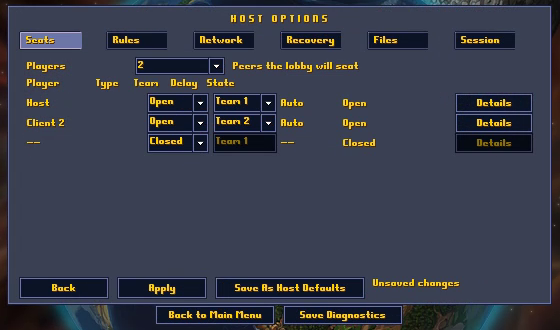
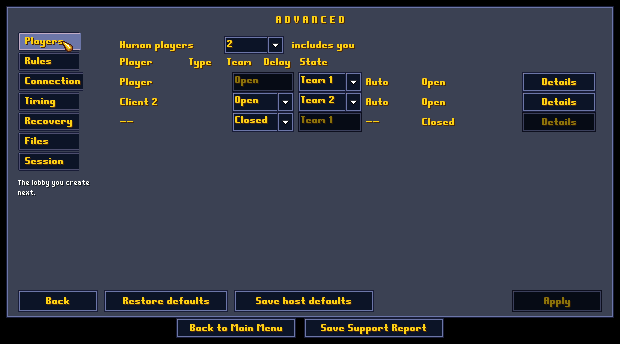
Show the multiplayer screens as they are now in the README

diff --git a/README.md b/README.md
@@ -106,14 +106,18 @@ A community fork of the [Cortex Command Community Project](https://github.com/co
 | | |
 |---|---|
 | <img src="docs/images/main-menu.jpg" alt="The main menu with Multiplayer" width="440"> | **Main menu.** **Multiplayer** sits between Scenario Battle and Saved Games. The version line at the bottom left names the base game, the multiplayer version and the network protocol. |
-| <img src="docs/images/join-game.png" alt="Join Game with the game list" width="440"> | **Join Game.** Type a host's address and port, or click a game in the list. `[LAN]` games are on your network; `[NET]` games come from the directory service. |
-| <img src="docs/images/host-options-seats.png" alt="Host options: Seats" width="440"> | **Host options: Seats.** How many players the lobby seats, each seat's team, its input delay (automatic by default) and its state. **Details** opens the seat. |
-| <img src="docs/images/host-options-network.png" alt="Host options: Network" width="440"> | **Host options: Network.** **Internet: NAT traversal (STUN)** lets players behind home routers connect directly; **Relay (TURN)** is off, from the directory (Cloudflare), or your own server. Every row has a one-line hint naming its consequence. The **Delay / session** tab holds the slow-player bound and what happens when a player falls behind. |
-| <img src="docs/images/recovery.png" alt="Host options: Recovery" width="440"> | **Host options: Recovery.** Automatic match repair; the **Return window** for a dropped player; authenticated rejoin; **Autosave checkpoints** every 60 seconds to 60 minutes, or off; **World history** and the **Catch-up limit** for persistent worlds. |
+| <img src="docs/images/multiplayer.png" alt="Multiplayer: your name, Host a Game and Join a Game" width="440"> | **Multiplayer.** Your name, then **Host a Game** and **Join a Game**, with **Host Saved Match** and **Replays** below. When a match of yours is still running, a block above them offers **Rejoin Match**: your seat is held until the host gives it away. |
+| <img src="docs/images/host-game.png" alt="Host a Game: activity, scene, mode and human players" width="440"> | **Host a Game.** Four rows: the activity with the first line of what it is, the scene, the mode in plain words and how many people play, you included. One line sums the match up and says who can find it. **Create Lobby** opens it; the port, the delay, the router and the listing are behind **Advanced**. |
+| <img src="docs/images/lobby.png" alt="The lobby: players, their state and what happens next" width="440"> | **Lobby.** Every player and AI team with its state, and one sentence saying who is waited for. Players press **Ready** and can take it back. The host presses **Start Match**: at once when everyone is ready, otherwise a 30-second countdown everyone sees starts, and the host can cancel it. A line says who can find the game. |
+| <img src="docs/images/join-game.png" alt="Join a Game: the game list" width="440"> | **Join a Game.** The screen is the game list: each game's host, activity and players, whether it is on this network or the internet, and the reason when it cannot be joined. Select a game and press **Join Game**, or double-click it. **Join by address** takes a host's address and port. |
+| <img src="docs/images/host-options-seats.png" alt="Advanced: Players" width="440"> | **Advanced.** The host's full options, on seven pages chosen on the left: Players, Rules, Connection, Timing, Recovery, Files and Session. Changes wait for **Apply**; **Back** leaves them; every list marks its default. **Players** lists each seat with its team and state; **Details** opens a seat. |
+| <img src="docs/images/host-options-connection.png" alt="Advanced: Connection" width="440"> | **Advanced: Connection.** **Game listing** (Public, Unlisted or Local discovery, each saying who can find the game), asking your router to open the port (on by default), the port, **Automatic direct connection** for players behind home routers, and **Relay fallback** when no direct route works. Every row has a one-line hint naming its consequence. |
+| <img src="docs/images/recovery.png" alt="Advanced: Recovery" width="440"> | **Advanced: Recovery.** Automatic match repair; the **Return window** for a dropped player; authenticated rejoin; **Autosave checkpoints** every 60 seconds to 60 minutes, or off; **World history** and the **Catch-up limit** for persistent worlds; **Repair match now** while a match runs. |
+| <img src="docs/images/settings-network.png" alt="Settings: Network, the first view" width="440"> | **Settings → Network.** Your name, your **Connection** (Automatic: direct, or a relay when no direct route works) with **Change**, the chat switches and when the connection status shows. **Advanced settings** opens the rest: delay, chat, recovery, files, the online game list, the STUN list and your own relay. |
 | <img src="docs/images/net-overlay.png" alt="The in-match network overlay" width="440"> | **In the match.** The overlay: input delay in ticks and milliseconds, your route (*via direct* or *via relay*), the slowest peer's round trip, and the pace. **F6** opens the seats panel: held seats and why, applications for a seat, kick and ban. |
 | <img src="docs/images/match-seats.jpg" alt="The seats panel open during a match" width="440"> | **The seats panel.** The match continues while it is open. Chat lines sit at the top of the screen; a toast names what just happened (a player joined, the match paused). |
 
-Not pictured: **Settings → Network** (your **Connection** setting, the STUN list, your own relay, the directory address, diagnostics), the post-match summary with rematch, and the **Rejoin Match** offer on the Multiplayer menu when a match of yours is still running.
+Not pictured: a seat's details, the joined player's read-only **Match details**, **Replays** and **Host Saved Match**, the post-match summary with rematch, and the **Rejoin Match** offer on the Multiplayer menu when a match of yours is still running.
 
 ---
 
